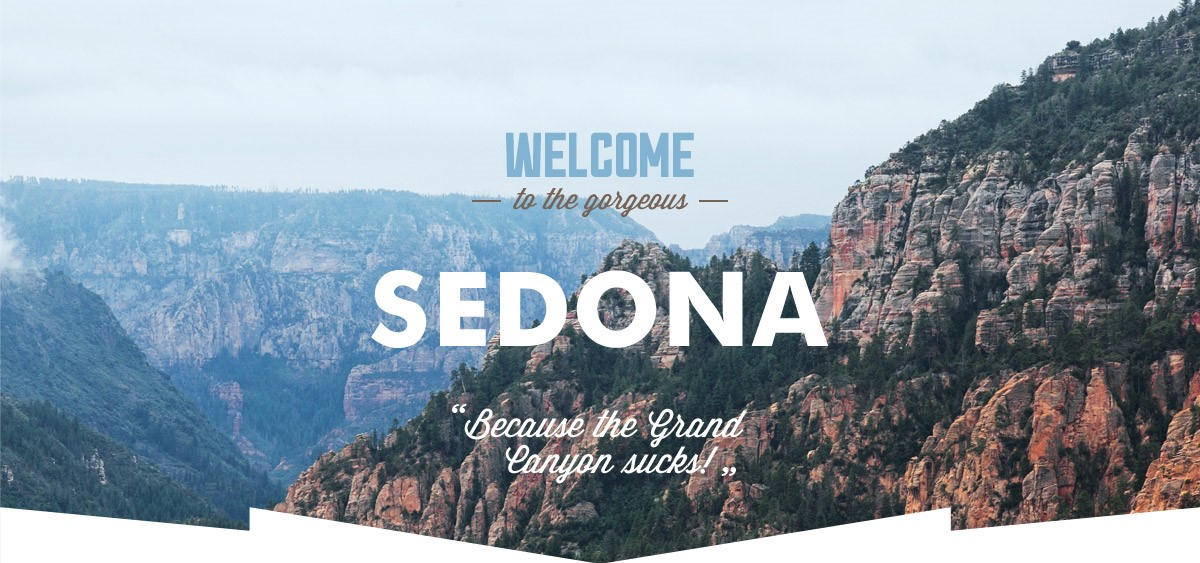
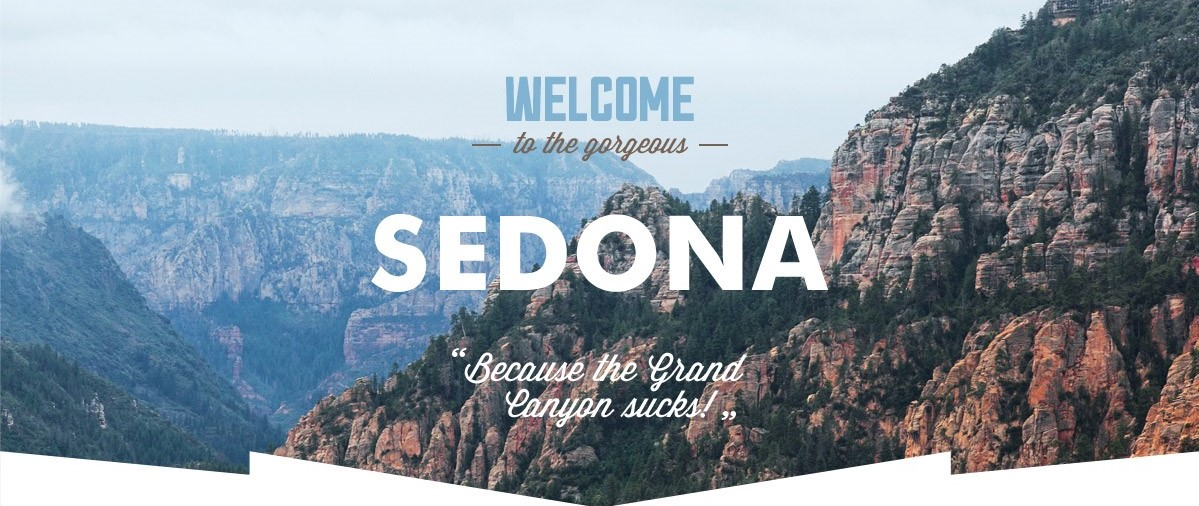
Начала стилизовать декоративные элементы

diff --git a/index.html b/index.html
@@ -26,7 +26,7 @@
 				<section class="main-photo">
 					<h1 class="visually-hidden">Городок Седона</h1>
 						<div class="main-photo-image">	
-							<img src="img/welcome-to.jpg" width="1200" height="563" alt="Седона">
+							<img src="img/welcome-to.jpg" width="1200" height="506" alt="Седона">
 						</div>	
 					<div class="index-column">	
 						<p class="sedona-text">Седона - небольшой городок в Аризоне, заслуживающий большего!</p>
@@ -44,13 +44,13 @@
 									<p class="feature-item-text">Седона - не аттракцион для туристов, &nbsp; там течет своя жизнь</p>
 								</div>
 								<div class="city-photo">
-									<img src="img/sedona-1.jpg" width="800" height="263" alt="Настоящий городок">
+									<img src="img/sedona-1.jpg" width="800" height="257" alt="Настоящий городок">
 								</div>
 							</div>
 							<ul class="main-features-list">
 								<li class="main-features-item lodging">
 									<p class="lodging">Жилье</p>
-									<p class="main-features-text">Рекомендуем пожить в настоящем мотеле, как в кино!</p>
+									<p class="main-features-text">Рекомендуем пожить в настоящем мотеле, все как в кино!</p>
 								</li>
 								<li class="main-features-item meal">
 									<p class="meal">Еда</p>	
@@ -64,7 +64,7 @@
 						</li>		
 						<li class="feature-item">
 							<div class="city-photo">
-								<img src="img/sedona-2.jpg" width="800" height="263" alt="Мост дьявола">
+								<img src="img/sedona-2.jpg" width="800" height="257" alt="Мост дьявола">
 							</div>	
 							<div class="feature-item-blue">
 								<p class="city-features">Там есть<br> мост дьявола</p>
@@ -133,15 +133,23 @@
 			</main>
 			
 			<footer class="main-footer"> 
-				<p class="footer-block instagram">#visitsedona</p>
-				<ul class="footer-block footer-social">
-						<li><a class="social-button twitter" href="#">Твиттер</a></li>
-						<li><a class="social-button facebook" href="#">Фэйсбук</a></li>
-						<li><a class="social-button youtube" href="#">Ютуб</a></li>
+				<p class="instagram">#visitsedona</p>
+				<ul class="footer-social">
+						<li><a class="social-button twitter" href="#"><span class="visually-hidden">Твиттер</span>
+						<svg xmlns="http://www.w3.org/2000/svg" xmlns:xlink="http://www.w3.org/1999/xlink" width="17" height="15" viewBox="0 0 17 15"><path fill="#FFF" d="M10.95.144c1.685-.496 2.984.27 3.577 1.179.673-.231 1.331-.481 2.011-.708a2.345 2.345 0 0 1-.857 1.768c.685.17 1.304-.491 1.304-.491-.169 1-1.006 1.788-1.563 2.024-.231 6.75-3.175 11.217-10.077 11.082h-.446c-.41 0-4.164-.46-4.898-1.887 2.271.196 3.893-.422 4.693-1.177-.96-.3-2.679-.477-2.979-2.95.349.106.564.228 1.19.119C1.705 8.247.374 7.53.448 5.33c.285.328 1.067.536 1.34.472C1.085 5.561-.182 2.442.894.85c1.818 1.854 3.735 3.606 7.152 3.773C8.254 2.33 9.183.793 10.95.144z"/></svg>
+						</a></li>
+						<li><a class="social-button facebook" href="#"><span class="visually-hidden">Фэйсбук</span>
+						<svg xmlns="http://www.w3.org/2000/svg" width="12" height="22" viewBox="0 0 12 22"><path fill="#FFF" d="M12 4V0H8a4 4 0 0 0-4 4v4H0v4h4v10h4V12h4V8H8V4h4z"/></svg>
+						</a></li>
+						<li><a class="social-button youtube" href="#"><span class="visually-hidden">Ютуб</span>
+						<svg xmlns="http://www.w3.org/2000/svg" xmlns:xlink="http://www.w3.org/1999/xlink" width="20" height="16" viewBox="0 0 20 16"><path fill="#FFF" d="M17 0H3C1.35 0 0 1.35 0 3v10c0 1.65 1.35 3 3 3h14c1.65 0 3-1.35 3-3V3c0-1.65-1.35-3-3-3zM6.027 11.998V4.002L15.014 8l-8.987 3.998z"/></svg>
+						</a></li>
 				</ul>	
-				<p class="footer-block footer-copyright">
+				<p class="footer-copyright">
 					<span>Website by</span>
-					<a class="button html-academy" href="https://htmlacademy.ru/intensive/htmlcss">html academy</a>
+					<a class="button html-academy" href="https://htmlacademy.ru/intensive/htmlcss"><span class="visually-hidden">html academy</span>
+					<svg id="Layer_1" data-name="Layer 1" xmlns="http://www.w3.org/2000/svg" viewBox="0 0 108.08 36.85"><title>logo-htmlacademy-small1</title><path d="M44.61,26.88a2,2,0,0,0,.55-0.1v1.33a3.25,3.25,0,0,1-1.18.21,1.67,1.67,0,0,1-1.67-1,4.84,4.84,0,0,1-3.14,1.08c-1.51,0-2.91-.83-2.91-2.55,0-2.13,2-2.79,3.71-2.79a11.08,11.08,0,0,1,2.17.25v-0.3c0-1-.76-1.77-2.19-1.77a7.42,7.42,0,0,0-3,.64v-1.7a10.21,10.21,0,0,1,3.19-.55c2.36,0,3.81,1.12,3.81,3.65v3a0.54,0.54,0,0,0,.49.59h0.17Zm-6.44-1.13A1.35,1.35,0,0,0,39.63,27h0.11a3.39,3.39,0,0,0,2.41-1V24.58a9.72,9.72,0,0,0-1.81-.21c-1,0-2.16.33-2.16,1.38h0Zm12.36-6.11a5,5,0,0,1,2.57.64V22a4.08,4.08,0,0,0-2.3-.7,2.75,2.75,0,1,0,0,5.49,5,5,0,0,0,2.43-.64v1.71a6.27,6.27,0,0,1-2.76.57A4.21,4.21,0,0,1,46,24.51q0-.21,0-0.41a4.32,4.32,0,0,1,4.18-4.46h0.38Zm12.17,7.24a2,2,0,0,0,.55-0.1v1.33a3.25,3.25,0,0,1-1.18.21,1.67,1.67,0,0,1-1.67-1,4.84,4.84,0,0,1-3.14,1.08c-1.51,0-2.91-.83-2.91-2.55,0-2.13,2-2.79,3.71-2.79a11.08,11.08,0,0,1,2.17.25v-0.3c0-1-.76-1.77-2.19-1.77a7.42,7.42,0,0,0-3,.64v-1.7a10.21,10.21,0,0,1,3.19-.55c2.36,0,3.81,1.12,3.81,3.65v3a0.54,0.54,0,0,0,.49.59h0.17Zm-6.44-1.13A1.35,1.35,0,0,0,57.73,27h0.11a3.39,3.39,0,0,0,2.41-1V24.58a9.72,9.72,0,0,0-1.81-.21c-1.06,0-2.16.33-2.16,1.38h0ZM73,16V28.2H71.35V26.88a3.88,3.88,0,0,1-3.19,1.54,4.4,4.4,0,0,1,0-8.78,3.81,3.81,0,0,1,3,1.3V16H73Zm-4.53,5.22a2.76,2.76,0,1,0,0,5.52A2.86,2.86,0,0,0,71.15,25V23A2.91,2.91,0,0,0,68.49,21.27ZM79,19.64c3.31,0,4.46,2.68,3.92,5.09H76.7c0.21,1.5,1.67,2.11,3.19,2.11a6.11,6.11,0,0,0,2.64-.59v1.6a7.14,7.14,0,0,1-3,.57C77,28.42,74.78,27,74.78,24a4.18,4.18,0,0,1,4-4.39H79Zm0.09,1.54a2.28,2.28,0,0,0-2.44,2.1v0.06H81.3A2,2,0,0,0,79.13,21.18Zm5.73,7V19.87h1.65v1a3.81,3.81,0,0,1,2.78-1.27A2.86,2.86,0,0,1,91.89,21a4.12,4.12,0,0,1,2.91-1.33A3.06,3.06,0,0,1,98,23V28.2h-1.9V23.05a1.59,1.59,0,0,0-1.42-1.75H94.42a2.8,2.8,0,0,0-2.07,1.12V28.2h-1.9V23.05A1.59,1.59,0,0,0,89,21.31H88.8a3,3,0,0,0-2.21,1.29v5.63H84.86Zm21.31-8.33h1.9l-3.91,9.46c-0.9,2.17-2.09,2.86-3.35,2.86a4.76,4.76,0,0,1-1.1-.14V30.46a2.86,2.86,0,0,0,.85.12c0.9,0,1.58-.64,2.07-1.9l0.17-.42-4-8.4h2l2.86,6.29ZM38.73,1.46V6.22a3.81,3.81,0,0,1,2.7-1.14,3.25,3.25,0,0,1,3.44,3.4v5.15H43V8.72a1.81,1.81,0,0,0-1.61-2h-0.3a2.93,2.93,0,0,0-2.32,1.39v5.52h-1.9V1.46h1.9ZM49.94,2.31v3h3V6.91h-3v3.81c0,1.1.5,1.46,1.58,1.46a4.49,4.49,0,0,0,1.69-.33v1.6A6.8,6.8,0,0,1,51,13.8a2.55,2.55,0,0,1-2.86-2.74V6.89H46.58V5.26h1.5V2.74Zm5.4,11.31V5.28H57v1A3.81,3.81,0,0,1,59.77,5a2.86,2.86,0,0,1,2.6,1.33A4.12,4.12,0,0,1,65.28,5,3.06,3.06,0,0,1,68.44,8.4v5.21h-1.9V8.46a1.59,1.59,0,0,0-1.42-1.75H64.89a2.8,2.8,0,0,0-2.07,1.12v5.78h-1.9V8.46A1.59,1.59,0,0,0,59.5,6.71H59.27A3,3,0,0,0,57.06,8v5.63H55.34ZM71.17,1.45H73V13.6H71.17V1.45ZM14.71,0H14.55L0,1.54V28.21l14.55,8.66,14.55-8.66V1.54Zm12.5,27.1L14.55,34.64,1.9,27.12V16.18l12.59,7.5V25L5.86,19.9v1.31l8.68,5.21v1.39L5.87,22.65V24l8.68,5.21,8.75-5.24V18.31L27.2,16V27.12Zm0-12.53-3.48,2-1.6,1L14.51,13v1.31L21,18.23H21l-0.14.09-1,.54-5.37-3.2V17l4.24,2.52-1,.67-3.2-1.9v1.31l2.1,1.24L14.5,22.1,2,14.65,14.51,7.11Zm0-1.32L14.49,5.76,1.91,13.25v-10L14.56,1.92,27.21,3.25v10h0Z" transform="translate(0 -0.02)" fill="#231f20"/></svg>
+					</a>
 				</p>	
 			</footer>
 			<section class="modal modal-search-modal">

diff --git a/inner.html b/inner.html
@@ -62,11 +62,11 @@
 						<div class="filter-wrapper">	
 							<p class="filter-caption">Стоимость в сутки (р):</p>
 							<div class="cost">
-								<label class="filter-label">
-									<input type="text" name="cost-min" value="от 0" disabled>
+								<label class="filter-label" for="filter-cost-min">
+									<input id="filter-cost-min" type="text" name="cost-min" value="от 0" disabled>
 								</label>
-								<label class="filter-label">
-									<input type="text" name="cost-max" value="до 3000" disabled>
+								<label class="filter-label" for="filter-cost-max">
+									<input id="filter-cost-max" type="text" name="cost-max" value="до 3000" disabled>
 								</label>
 							</div>	
 							<div class="range-view">	
@@ -158,17 +158,25 @@
 					</div>
 				</section>
 			</main>	
-			<footer class="main-footer">
-				<p class="footer-block instagram">#visitsedona</p>
-					<ul class="footer-block footer-social">
-						<li><a class="social-button twitter" href="#">Твиттер</a></li>
-						<li><a class="social-button facebook" href="#">Фэйсбук</a></li>
-						<li><a class="social-button youtube" href="#">Ютуб</a></li>
-					</ul>	
-				<p class="footer-block footer-copyright">
+			<footer class="main-footer"> 
+				<p class="instagram">#visitsedona</p>
+				<ul class="footer-social">
+						<li><a class="social-button twitter" href="#"><span class="visually-hidden">Твиттер</span>
+						<svg xmlns="http://www.w3.org/2000/svg" xmlns:xlink="http://www.w3.org/1999/xlink" width="17" height="15" viewBox="0 0 17 15"><path fill="#FFF" d="M10.95.144c1.685-.496 2.984.27 3.577 1.179.673-.231 1.331-.481 2.011-.708a2.345 2.345 0 0 1-.857 1.768c.685.17 1.304-.491 1.304-.491-.169 1-1.006 1.788-1.563 2.024-.231 6.75-3.175 11.217-10.077 11.082h-.446c-.41 0-4.164-.46-4.898-1.887 2.271.196 3.893-.422 4.693-1.177-.96-.3-2.679-.477-2.979-2.95.349.106.564.228 1.19.119C1.705 8.247.374 7.53.448 5.33c.285.328 1.067.536 1.34.472C1.085 5.561-.182 2.442.894.85c1.818 1.854 3.735 3.606 7.152 3.773C8.254 2.33 9.183.793 10.95.144z"/></svg>
+						</a></li>
+						<li><a class="social-button facebook" href="#"><span class="visually-hidden">Фэйсбук</span>
+						<svg xmlns="http://www.w3.org/2000/svg" width="12" height="22" viewBox="0 0 12 22"><path fill="#FFF" d="M12 4V0H8a4 4 0 0 0-4 4v4H0v4h4v10h4V12h4V8H8V4h4z"/></svg>
+						</a></li>
+						<li><a class="social-button youtube" href="#"><span class="visually-hidden">Ютуб</span>
+						<svg xmlns="http://www.w3.org/2000/svg" xmlns:xlink="http://www.w3.org/1999/xlink" width="20" height="16" viewBox="0 0 20 16"><path fill="#FFF" d="M17 0H3C1.35 0 0 1.35 0 3v10c0 1.65 1.35 3 3 3h14c1.65 0 3-1.35 3-3V3c0-1.65-1.35-3-3-3zM6.027 11.998V4.002L15.014 8l-8.987 3.998z"/></svg>
+						</a></li>
+				</ul>	
+				<p class="footer-copyright">
 					<span>Website by</span>
-					<a class="button" href="https://htmlacademy.ru/intensive/htmlcss">html academy</a>
-				</p>
+					<a class="button html-academy" href="https://htmlacademy.ru/intensive/htmlcss"><span class="visually-hidden">html academy</span>
+					<svg id="Layer_1" data-name="Layer 1" xmlns="http://www.w3.org/2000/svg" viewBox="0 0 108.08 36.85"><title>logo-htmlacademy-small1</title><path d="M44.61,26.88a2,2,0,0,0,.55-0.1v1.33a3.25,3.25,0,0,1-1.18.21,1.67,1.67,0,0,1-1.67-1,4.84,4.84,0,0,1-3.14,1.08c-1.51,0-2.91-.83-2.91-2.55,0-2.13,2-2.79,3.71-2.79a11.08,11.08,0,0,1,2.17.25v-0.3c0-1-.76-1.77-2.19-1.77a7.42,7.42,0,0,0-3,.64v-1.7a10.21,10.21,0,0,1,3.19-.55c2.36,0,3.81,1.12,3.81,3.65v3a0.54,0.54,0,0,0,.49.59h0.17Zm-6.44-1.13A1.35,1.35,0,0,0,39.63,27h0.11a3.39,3.39,0,0,0,2.41-1V24.58a9.72,9.72,0,0,0-1.81-.21c-1,0-2.16.33-2.16,1.38h0Zm12.36-6.11a5,5,0,0,1,2.57.64V22a4.08,4.08,0,0,0-2.3-.7,2.75,2.75,0,1,0,0,5.49,5,5,0,0,0,2.43-.64v1.71a6.27,6.27,0,0,1-2.76.57A4.21,4.21,0,0,1,46,24.51q0-.21,0-0.41a4.32,4.32,0,0,1,4.18-4.46h0.38Zm12.17,7.24a2,2,0,0,0,.55-0.1v1.33a3.25,3.25,0,0,1-1.18.21,1.67,1.67,0,0,1-1.67-1,4.84,4.84,0,0,1-3.14,1.08c-1.51,0-2.91-.83-2.91-2.55,0-2.13,2-2.79,3.71-2.79a11.08,11.08,0,0,1,2.17.25v-0.3c0-1-.76-1.77-2.19-1.77a7.42,7.42,0,0,0-3,.64v-1.7a10.21,10.21,0,0,1,3.19-.55c2.36,0,3.81,1.12,3.81,3.65v3a0.54,0.54,0,0,0,.49.59h0.17Zm-6.44-1.13A1.35,1.35,0,0,0,57.73,27h0.11a3.39,3.39,0,0,0,2.41-1V24.58a9.72,9.72,0,0,0-1.81-.21c-1.06,0-2.16.33-2.16,1.38h0ZM73,16V28.2H71.35V26.88a3.88,3.88,0,0,1-3.19,1.54,4.4,4.4,0,0,1,0-8.78,3.81,3.81,0,0,1,3,1.3V16H73Zm-4.53,5.22a2.76,2.76,0,1,0,0,5.52A2.86,2.86,0,0,0,71.15,25V23A2.91,2.91,0,0,0,68.49,21.27ZM79,19.64c3.31,0,4.46,2.68,3.92,5.09H76.7c0.21,1.5,1.67,2.11,3.19,2.11a6.11,6.11,0,0,0,2.64-.59v1.6a7.14,7.14,0,0,1-3,.57C77,28.42,74.78,27,74.78,24a4.18,4.18,0,0,1,4-4.39H79Zm0.09,1.54a2.28,2.28,0,0,0-2.44,2.1v0.06H81.3A2,2,0,0,0,79.13,21.18Zm5.73,7V19.87h1.65v1a3.81,3.81,0,0,1,2.78-1.27A2.86,2.86,0,0,1,91.89,21a4.12,4.12,0,0,1,2.91-1.33A3.06,3.06,0,0,1,98,23V28.2h-1.9V23.05a1.59,1.59,0,0,0-1.42-1.75H94.42a2.8,2.8,0,0,0-2.07,1.12V28.2h-1.9V23.05A1.59,1.59,0,0,0,89,21.31H88.8a3,3,0,0,0-2.21,1.29v5.63H84.86Zm21.31-8.33h1.9l-3.91,9.46c-0.9,2.17-2.09,2.86-3.35,2.86a4.76,4.76,0,0,1-1.1-.14V30.46a2.86,2.86,0,0,0,.85.12c0.9,0,1.58-.64,2.07-1.9l0.17-.42-4-8.4h2l2.86,6.29ZM38.73,1.46V6.22a3.81,3.81,0,0,1,2.7-1.14,3.25,3.25,0,0,1,3.44,3.4v5.15H43V8.72a1.81,1.81,0,0,0-1.61-2h-0.3a2.93,2.93,0,0,0-2.32,1.39v5.52h-1.9V1.46h1.9ZM49.94,2.31v3h3V6.91h-3v3.81c0,1.1.5,1.46,1.58,1.46a4.49,4.49,0,0,0,1.69-.33v1.6A6.8,6.8,0,0,1,51,13.8a2.55,2.55,0,0,1-2.86-2.74V6.89H46.58V5.26h1.5V2.74Zm5.4,11.31V5.28H57v1A3.81,3.81,0,0,1,59.77,5a2.86,2.86,0,0,1,2.6,1.33A4.12,4.12,0,0,1,65.28,5,3.06,3.06,0,0,1,68.44,8.4v5.21h-1.9V8.46a1.59,1.59,0,0,0-1.42-1.75H64.89a2.8,2.8,0,0,0-2.07,1.12v5.78h-1.9V8.46A1.59,1.59,0,0,0,59.5,6.71H59.27A3,3,0,0,0,57.06,8v5.63H55.34ZM71.17,1.45H73V13.6H71.17V1.45ZM14.71,0H14.55L0,1.54V28.21l14.55,8.66,14.55-8.66V1.54Zm12.5,27.1L14.55,34.64,1.9,27.12V16.18l12.59,7.5V25L5.86,19.9v1.31l8.68,5.21v1.39L5.87,22.65V24l8.68,5.21,8.75-5.24V18.31L27.2,16V27.12Zm0-12.53-3.48,2-1.6,1L14.51,13v1.31L21,18.23H21l-0.14.09-1,.54-5.37-3.2V17l4.24,2.52-1,.67-3.2-1.9v1.31l2.1,1.24L14.5,22.1,2,14.65,14.51,7.11Zm0-1.32L14.49,5.76,1.91,13.25v-10L14.56,1.92,27.21,3.25v10h0Z" transform="translate(0 -0.02)" fill="#231f20"/></svg>
+					</a>
+				</p>	
 			</footer>
 			</section>	
 		</div>	

diff --git a/css/style.css b/css/style.css
@@ -129,7 +129,7 @@ ul.main-features-list2 {
 
 .main-features-text {
 	max-width: 300px;
-	margin: 20px auto 0 auto;
+	margin: 25px auto 0 auto;
 }
 
 .city-features,
@@ -145,12 +145,12 @@ p.souvenirs,
 
 .city-features {
 	width: 158px;
-	margin: 0 auto 28px;
+	margin: 0 auto 23px;
 }
 
 .city-features-others {
 	width: 120px;
-	margin-bottom: 28px;
+	margin-bottom: 24px;
 }
 
 b.appointment-text {
@@ -167,7 +167,7 @@ span.appointment-info {
 }
 
 span.appointment-info:first-child {
-	margin-top: 38px;
+	margin-top: 26px;
 }
 
 .button-search-hotels {
@@ -286,27 +286,67 @@ p.instagram {
 	font-size: 21px;
 	line-height: 26px;
 	margin: 0;
-	text-align: center;
+	align-self: center;
 }
 
-.footer-copyright {
-	margin: 0;
-	text-align: center;
-}
-
-.footer-copyright span {
-	font-weight: normal;
-}
-
-ul.footer-social {
-	list-style: none;
-	margin: 0;
+.footer-social {
 	padding: 0;
+	margin: 0;
+	margin-left: 28px;
+	display: flex;
+	flex-wrap: wrap;
+	justify-content: space-between;
+	width: 150px;
+	list-style: none;
 }
 
 .footer-social a {
 	text-align: center;
 	color: #000000;
+}
+
+.social-button {
+	display: flex;
+	align-items: center;
+	justify-content: center;
+	height: 48px;
+	width: 46px;
+	background-color: #81b3d2;
+}
+
+.social-button:hover {
+	background-color: #669ec0;
+}
+
+.social-button:focus {
+	background-color: #5496bd;
+}
+.social-button:focus path {
+	fill: #88b6d1;
+}
+
+.footer-copyright {
+	margin: 0;
+	align-items: center;
+	display: flex;
+}
+
+.footer-copyright .button {
+	height: 40px;
+	width: 114px;
+}
+
+.footer-copyright .button:hover path{
+	fill: #81b3d2;
+}
+
+.footer-copyright .button:focus path {
+	fill: #bdbbbc;
+}
+
+.footer-copyright span {
+	font-weight: normal;
+	margin-right: 8px;
 }
 
 .footer-copyright a {
@@ -607,6 +647,7 @@ a.hotels-type-link:focus {
 
 .site-navigation {
 	display: flex;
+	flex-wrap: wrap;
 	align-items: center;
 	margin: 0;
 	padding: 0 73px;
@@ -631,7 +672,7 @@ a.hotels-type-link:focus {
 
 .index-column {
 	display: block;
-	padding: 56px 0 58px 0;
+	padding: 64px 0 50px 0;
 	margin: 0 auto;
 	max-width: 500px;
 }
@@ -648,7 +689,7 @@ a.hotels-type-link:focus {
 .feature-item-blue {
 	width: 33.333%;
 	color:  #ffffff;
-	padding: 50px 0 60px;
+	padding: 48px 0 54px;
 
 	background-color: #81b3d2;
 }
@@ -666,7 +707,7 @@ a.hotels-type-link:focus {
 
 .main-features-list {
 	margin: 0;
-	padding: 32px 0 84px 0;
+	padding: 44px 0 82px 0;
 	display: flex;
 	justify-content: space-between;
 }
@@ -674,11 +715,45 @@ a.hotels-type-link:focus {
 .main-features-item {
 	width: 33.3333%;
 	padding-top: 116px;
+	position: relative;
+}
+
+.main-features-item.lodging::before {
+	content: "";
+	position: absolute;
+	background-image: url("../img/house-1.svg");
+	background-repeat: no-repeat;
+	width: 75px;
+	height: 75px;
+	top: 14px;
+	left: 162px;
+}
+
+.main-features-item.meal::before {
+	content: "";
+	position: absolute;
+	background-image: url("../img/meal-3.svg");
+	background-repeat: no-repeat;
+	width: 76px;
+	height: 72px;
+	top: 16px;
+	left: 162px;
+}
+
+.main-features-item.souvenirs::before {
+	content: "";
+	position: absolute;
+	background-image: url("../img/souvenirs-2.svg");
+	background-repeat: no-repeat;
+	width: 66px;
+	height: 78px;
+	top: 10px;
+	left: 168px;
 }
 
 .main-features-list2 {
 	margin: 0;
-	padding: 44px 0 60px 0;
+	padding: 46px 0 60px 0;
 	display: flex;
 	background-color: #eeeeee;
 }
@@ -693,7 +768,7 @@ a.hotels-type-link:focus {
 .appointment-column {
 	display: block;
 	margin: 0 auto;
-	padding: 56px 0 52px 0;
+	padding: 56px 0 40px 0;
 	width: 444px;
 	text-align: center;
 }
@@ -718,18 +793,8 @@ a.hotels-type-link:focus {
 
 .main-footer {
 	display: flex;
-	background-color: grey;
-	padding: 36px 0;
-}
-
-
-.footer-block {
-	width: 400px;
-}
-
-.footer-social {
-	display: flex;
-	justify-content: space-around;
+	justify-content: space-between;
+	padding: 36px 101px 36px 132px;
 }
 
 .main-filter {
